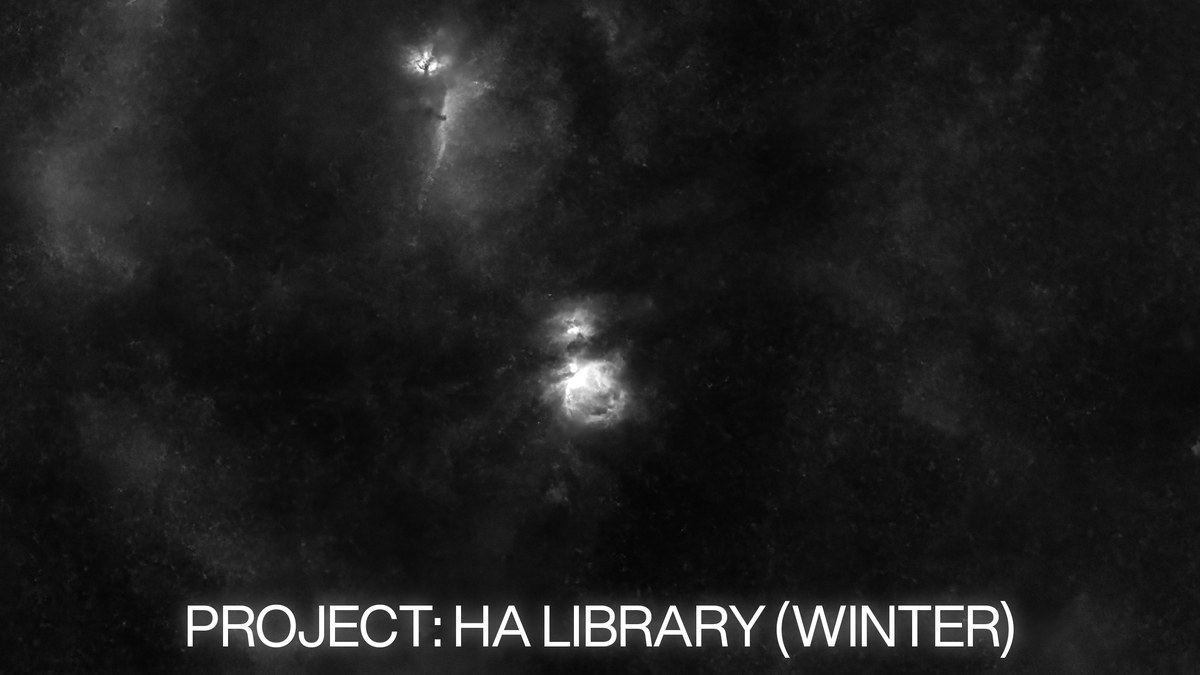
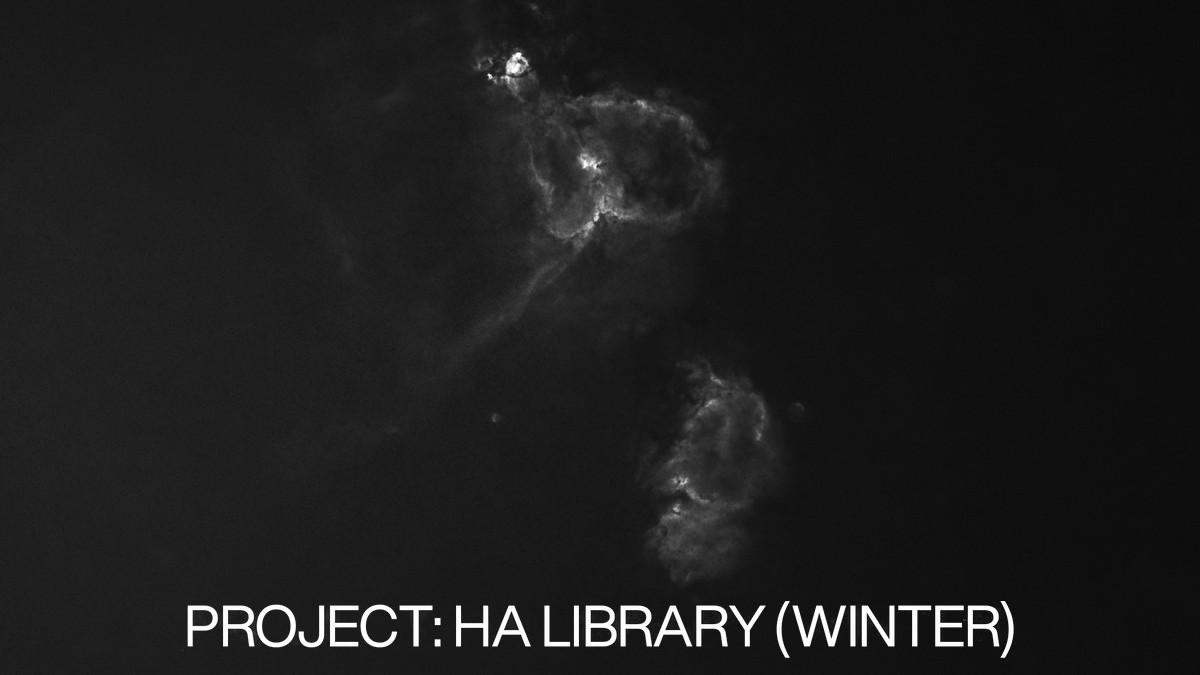
workflow: Ha Library — Heart & Soul (IC 1805/1848) 흑백 DBE 커버 + DBE 전 스택 원본과 촬영 데이터
Claude-Session: https://claude.ai/code/session_016s4Vb6gdPpuqVoR6i6czq9

diff --git a/workflow.html b/workflow.html
@@ -72,12 +72,14 @@
   <div class="wf-preview" id="wfPreview">
     <a class="wf-preview-media" id="wfPreviewMediaLink" target="_blank" rel="noopener" aria-label="자세히 보기">
       <img id="wfPreviewImg" src="" alt="">
-      <span class="wf-preview-media-hint eng">View Project &#8599;</span>
+      <span class="wf-preview-media-hint eng" id="wfPreviewMediaHint">View Project &#8599;</span>
+      <span class="wf-preview-tag eng" id="wfPreviewTag"></span>
     </a>
     <div class="wf-preview-body">
       <div class="wf-preview-eyebrow eng" id="wfPreviewEyebrow"></div>
       <h2 id="wfPreviewTitle"></h2>
       <p class="wf-preview-loc" id="wfPreviewLoc"></p>
+      <dl class="wf-preview-data eng" id="wfPreviewData"></dl>
       <p class="wf-preview-summary" id="wfPreviewSummary"></p>
       <a class="wf-preview-link eng" id="wfPreviewLink" href="" target="_blank" rel="noopener">자세히 보기 ↗</a>
     </div>
@@ -112,11 +114,23 @@
       link: "workflow/kita-nagato-sunset.html"
     },
     halibrary: {
-      eyebrow: "UPCOMING",
-      title: "Project: Ha Library (Winter)",
-      loc: "",
-      img: "images/workflow/covers/ha-library-cover.jpg",
-      summary: "상세 내용 준비 중입니다.",
+      eyebrow: "H-ALPHA LIBRARY · 01",
+      title: "Heart & Soul Nebula",
+      loc: "IC 1805 · IC 1848 — Cassiopeia · 2026.09.22",
+      img: "images/workflow/ha-library/heart-soul-stack.jpg",
+      // the frame is shown whole (3:2, no crop) and opens at full size
+      aspect: "3 / 2",
+      full: "images/workflow/ha-library/heart-soul-stack.jpg",
+      tag: "Before DBE",
+      summary: "DBE 전 스택 원본입니다. 커버는 같은 데이터를 DBE 처리 후 흑백으로 옮긴 결과입니다.",
+      data: [
+        ["Camera", "Sony α7 IV"],
+        ["Lens", "Samyang 50mm F1.4 FE II"],
+        ["Aperture", "f/2.0"],
+        ["Sub", "180s"],
+        ["ISO", "640"],
+        ["Integration", "1h"]
+      ],
       link: null
     }
   };
@@ -134,6 +148,9 @@
   const wfPreviewLink = document.getElementById('wfPreviewLink');
   const wfPreviewMediaLink = document.getElementById('wfPreviewMediaLink');
   const wfPreviewClose = document.getElementById('wfPreviewClose');
+  const wfPreviewMediaHint = document.getElementById('wfPreviewMediaHint');
+  const wfPreviewTag = document.getElementById('wfPreviewTag');
+  const wfPreviewData = document.getElementById('wfPreviewData');
   const wfItems = wfShelf.querySelectorAll('.wf-item');
 
   const isStacked = () => window.matchMedia('(max-width: 900px)').matches;
@@ -256,10 +273,27 @@
       wfPreviewLoc.textContent = p.loc;
       wfPreviewLoc.style.display = p.loc ? '' : 'none';
       wfPreviewSummary.textContent = p.summary;
+      // a single frame is shown whole at its own ratio instead of the 16:10 crop
+      wfPreviewMediaLink.style.aspectRatio = p.aspect || '';
+      wfPreviewMediaLink.classList.toggle('is-frame', !!p.aspect);
+      wfPreviewTag.textContent = p.tag || '';
+      wfPreviewTag.style.display = p.tag ? '' : 'none';
+      wfPreviewData.innerHTML = '';
+      (p.data || []).forEach(([k, v]) => {
+        const row = document.createElement('div');
+        const dt = document.createElement('dt'); dt.textContent = k;
+        const dd = document.createElement('dd'); dd.textContent = v;
+        row.append(dt, dd);
+        wfPreviewData.appendChild(row);
+      });
+      wfPreviewData.style.display = p.data ? '' : 'none';
       wfPreviewLink.href = p.link;
       wfPreviewLink.style.display = p.link ? '' : 'none';
-      if (p.link) {
-        wfPreviewMediaLink.setAttribute('href', p.link);
+      const mediaHref = p.link || p.full;
+      wfPreviewMediaHint.innerHTML = p.link ? 'View Project &#8599;' : 'View Full Size &#8599;';
+      wfPreviewMediaLink.setAttribute('aria-label', p.link ? '자세히 보기' : '원본 크기로 보기');
+      if (mediaHref) {
+        wfPreviewMediaLink.setAttribute('href', mediaHref);
         wfPreviewMediaLink.classList.add('is-link');
       } else {
         wfPreviewMediaLink.removeAttribute('href');

diff --git a/styles.css b/styles.css
@@ -501,6 +501,32 @@ figure.frame:hover .info-icon{
 .wf-preview-summary{
   font-size:14px; line-height:1.85; color:var(--fg); margin-bottom:22px;
 }
+/* a single frame (e.g. Ha Library): whole image at its own ratio, sized so
+   the frame + data still fit the stage without scrolling */
+.wf-preview-media.is-frame{
+  width:min(100%, calc((var(--wf-stage, 720px) - 310px) * 3 / 2));
+  min-width:min(100%, 360px);
+}
+.wf-preview-media.is-frame img{ object-fit:contain; }
+.wf-preview-tag{
+  position:absolute; left:12px; top:10px;
+  font-size:9px; letter-spacing:0.2em; text-transform:uppercase;
+  color:rgba(255,255,255,0.72);
+  pointer-events:none;
+  transition:opacity 0.3s ease;
+}
+.wf-preview-media.is-link:hover .wf-preview-tag{ opacity:0; }
+.wf-preview-data{
+  display:grid; grid-template-columns:repeat(3, minmax(0, 1fr));
+  gap:12px 18px;
+  margin:4px 0 18px; padding:14px 0;
+  border-top:1px solid var(--line); border-bottom:1px solid var(--line);
+}
+.wf-preview-data dt{
+  font-size:9px; letter-spacing:0.18em; text-transform:uppercase;
+  color:var(--fg-dim); margin-bottom:3px;
+}
+.wf-preview-data dd{ margin:0; font-size:13px; font-weight:300; color:var(--fg); }
 .wf-preview-link{
   display:inline-block;
   color:var(--fg); text-decoration:none;
@@ -620,6 +646,7 @@ figure.frame:hover .info-icon{
   .contact-card{padding:9px 11px;}
   .wf-swipe-hint{ display:none; }
   .wf-preview-media, .wf-preview-body{ max-width:520px; }
+  .wf-preview-data{ grid-template-columns:repeat(2, minmax(0, 1fr)); }
   .wordmark{font-size:11px;}
   .lightbox{padding:70px 18px 40px;}
   .nav-overlay a{font-size:clamp(24px, 8vw, 40px);}
@@ -677,6 +704,7 @@ figure.frame:hover .info-icon{
   .wf-preview-close{ display:flex; }
   .wf-preview-media{ aspect-ratio:16/9; margin-bottom:22px; }
   .wf-preview-media, .wf-preview-body{ max-width:560px; }
+  .wf-preview-media.is-frame{ width:100%; min-width:0; }
   .wf-shelf.has-active{ border-bottom:none; }
   /* the page behind the sheet stays put */
   html.wf-sheet-open, html.wf-sheet-open body{ overflow:hidden; }
